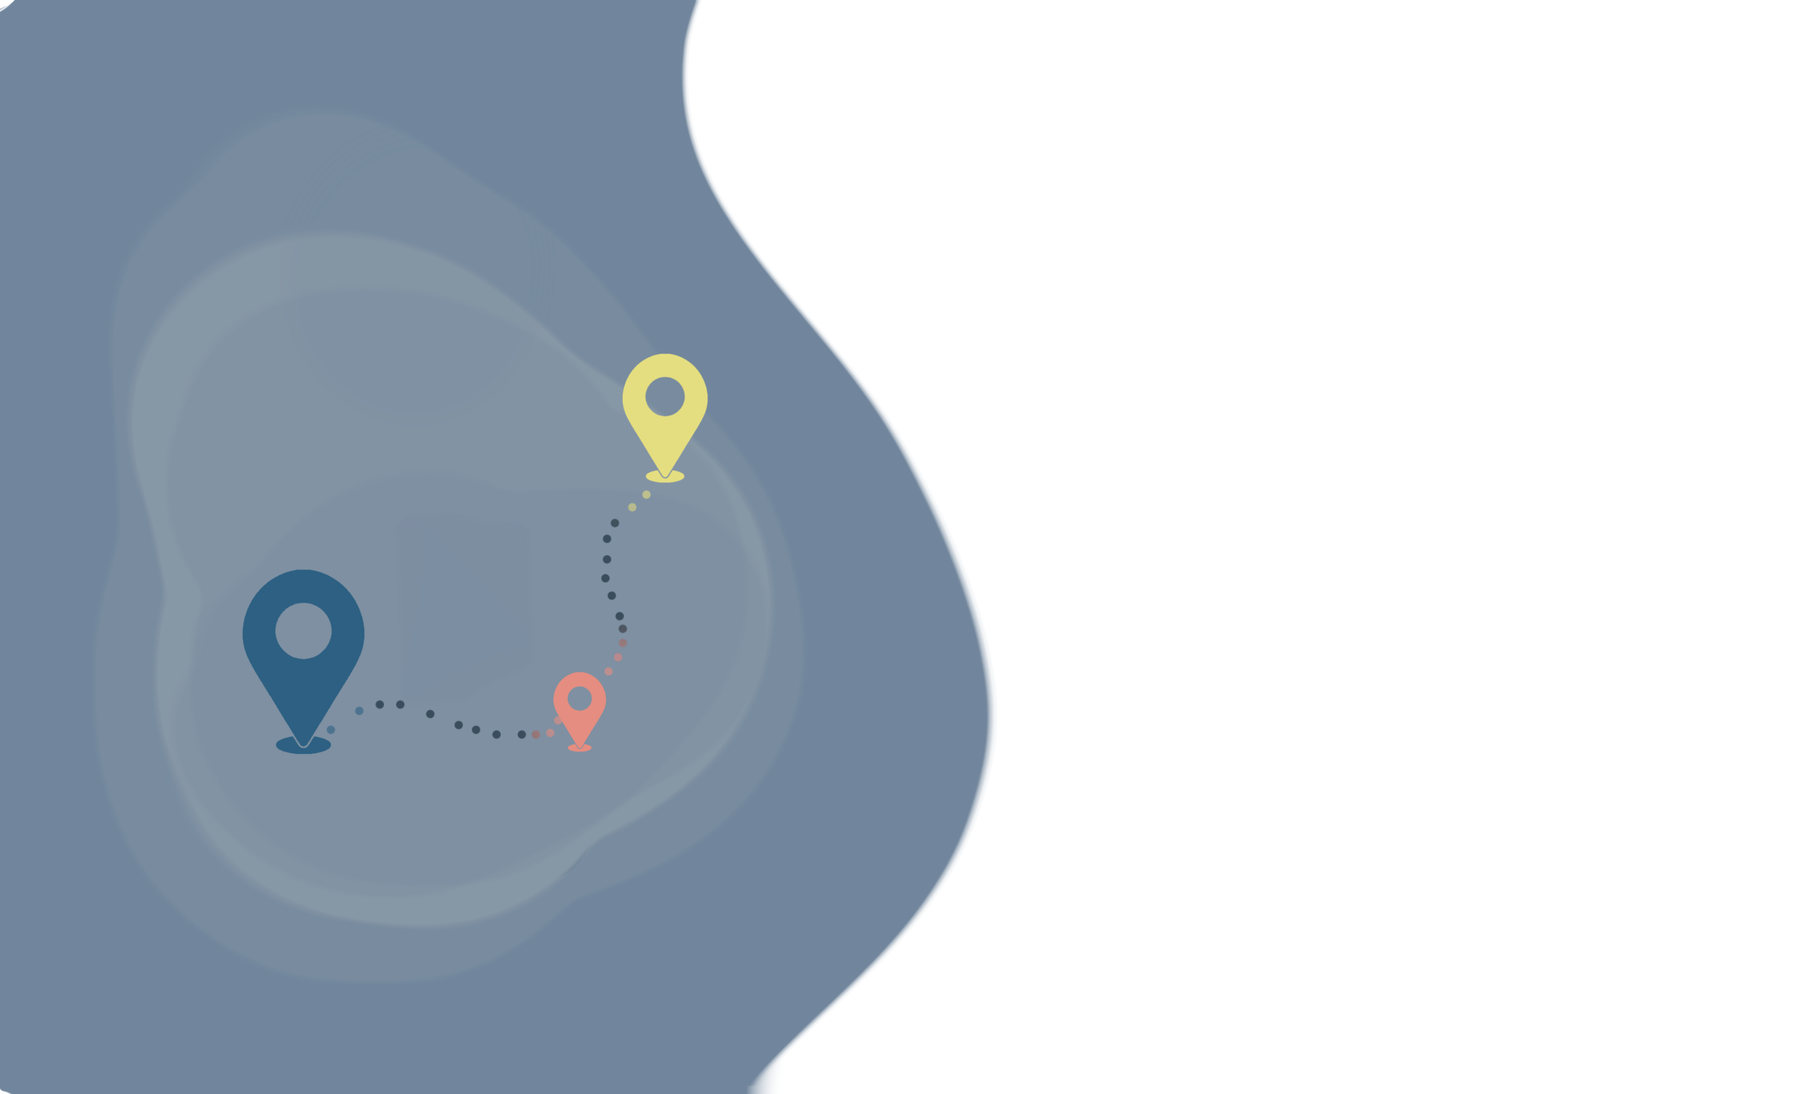
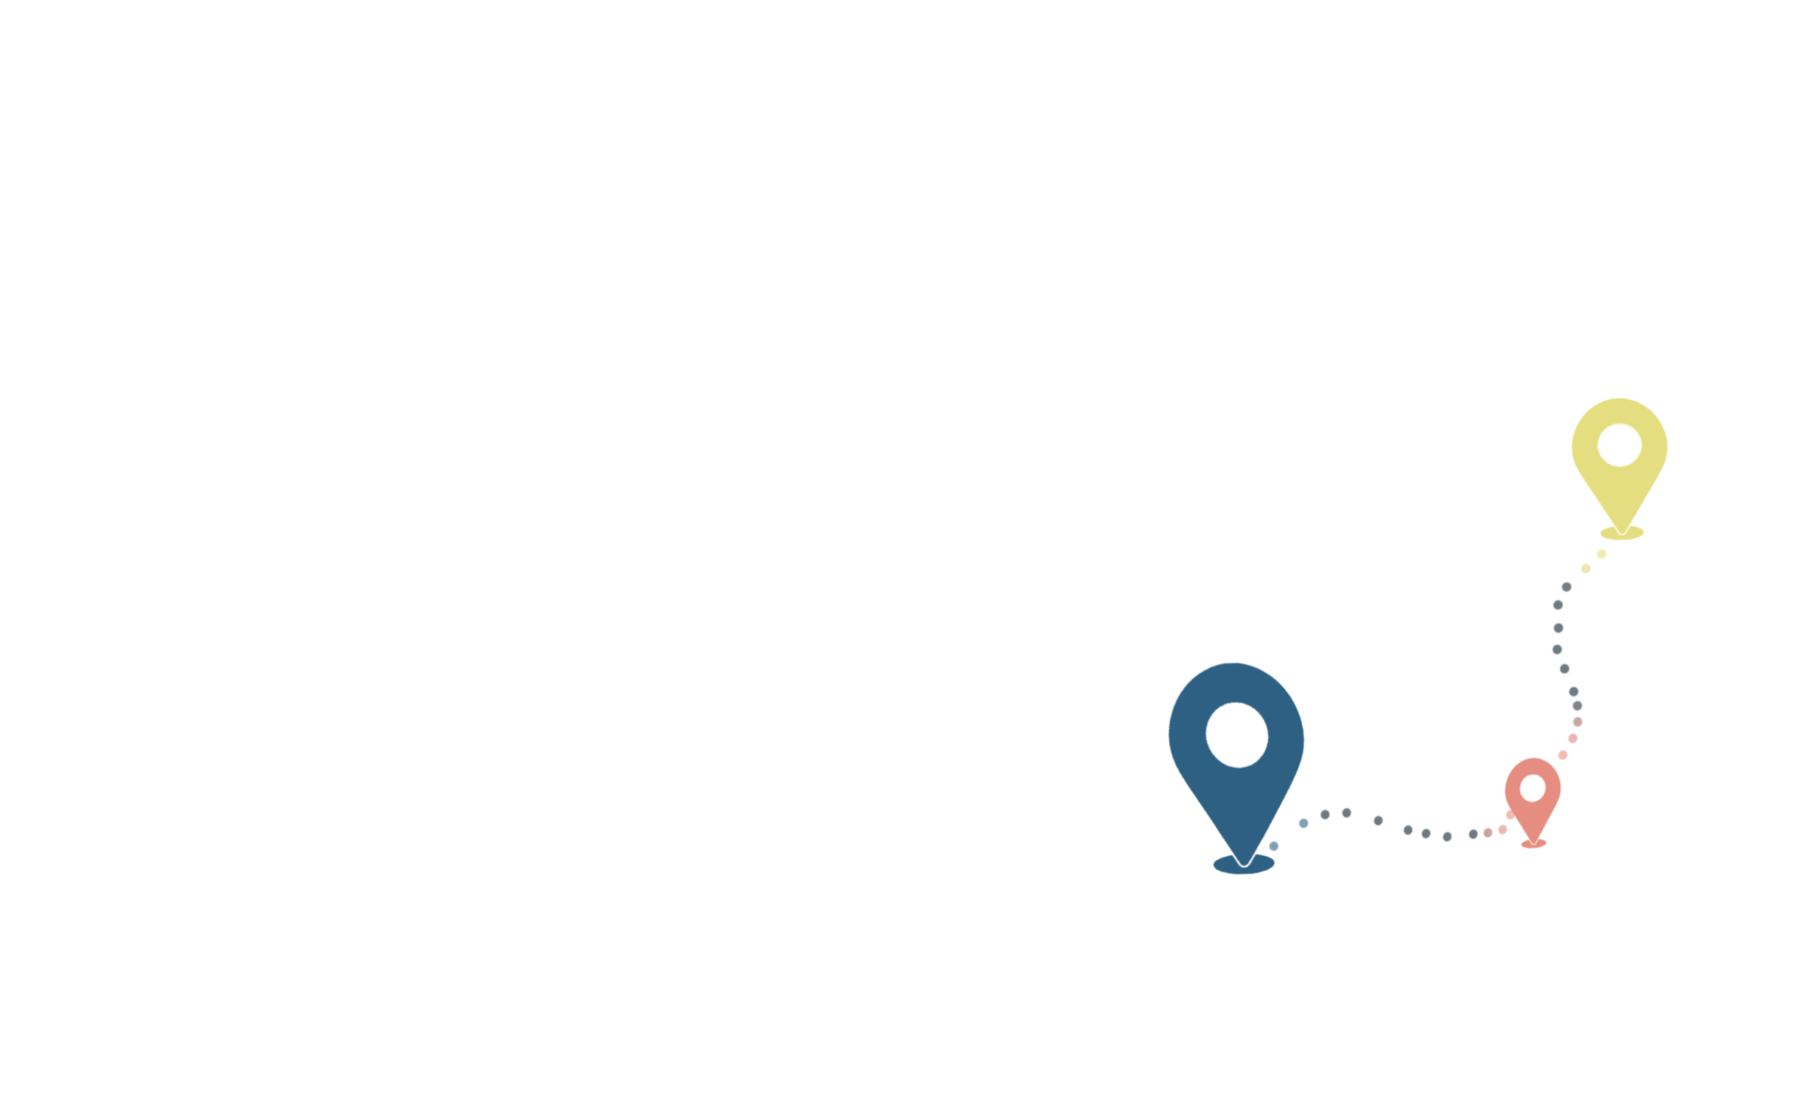
Added Login_SignUp

diff --git a/disaster-link/src/routes/signup/LguOfficial/+page.svelte b/disaster-link/src/routes/signup/LguOfficial/+page.svelte
@@ -1,0 +1,66 @@
+<div class=" min-h-screen flex flex-col items-center justify-center relative cursor-default">
+    <!-- bg-[linear-gradient(130deg,#2F4B5D_10%,#1B2E3A_100%)] -->
+    <img src="/imgs/landing2.png" alt="" class="absolute inset-0 w-full h-full opacity-70 object-cover pointer-events-none" />
+
+    <div class="fixed top-0 left-0 w-full bg-white/3-0 shadow-md z-50">
+        <div class="max-w-screen-xl mx-auto flex justify-between items-center h-12 px-4 md:px-4">
+            <h1 class="relative text-xs md:text-sm text-gray-500" style="font-family: 'Playfair Display SC', serif">DISASTERLINK</h1>
+            <div class="flex items-center space-x-3 md:space-x-6">
+            <a href="../login" class="bg-[#768391] text-black rounded px-4 md:px-5 text-xs text-white md:text-sm hover:bg-gray-300 transition p-1 hover:cursor-pointer">Log In</a>
+            </div>
+        </div> 
+    </div>
+
+    <div class="relative bg-[#2F4B5D]/4 w-170 h-100 grid place-content-center rounded-[16px] shadow-lg">
+        <div class="relative w-full flex flex-col items-center ">
+            <h1 class="relative text-[#2F4B5D] text-2xl font-bold">Create your DisasterLink account</h1>
+            <span class="relative top-5 text-[#2F4B5D] font-light -mt-5 text-sm">Access features to connect effectively.</span>
+            <div class="relative mt-20 grid grid-cols-1 md:grid-cols-3 w-full md:w-140 place-items-center"> 
+                <!-- <p class="text-xs w-full md:col-span-3 p-2">Name</p> -->
+                 <div class="relative -mt-10">
+                    <label for="FN" class="text-[10px] text-[#2F4B5D] md:col-span-2 w-full text-left ml-1">First Name</label>
+                    <input id="FN" type="text" placeholder="Enter your First Name" class="w-45 border p-1 rounded-lg mb-2 text-xs text-[#0C212F]" />
+                 </div>
+                 <div class="relative -mt-10">
+                    <label for="LN" class="text-[10px] text-[#2F4B5D] md:col-span-2 w-full text-left ml-1">Last Name</label>
+                    <input id="LN" type="text" placeholder="Enter your Last Name" class="w-45 border p-1 rounded-lg mb-2 text-xs text-[#0C212F]" />
+                 </div>
+                 <div class="relative -mt-10">
+                    <label for="UN" class="text-[10px] text-[#2F4B5D] md:col-span-2 w-full text-left ml-1">Username</label>
+                    <input id="UN" type="text" placeholder="Enter your Username" class="w-45 border p-1 rounded-lg mb-2 text-xs text-[#0C212F]" />
+                 </div>
+                 <div class="relative -mt-2 md:col-span-2 w-full text-left ml-1">
+                    <label for="EM" class="text-[10px] text-[#2F4B5D] ">Email Address</label>
+                    <input id="EM" type="text" placeholder="Enter your Email" class="md:col-span-2 w-91 border p-1 rounded-lg mb-2 text-xs text-[#0C212F]" /> 
+                </div>
+                <div class="relative -mt-2 ">
+                    <label for="PN" class="text-[10px] text-[#2F4B5D] ">Contact Number</label>
+                    <input id="PN"type="telephone" placeholder="Enter your Number" class="w-45 border p-1 rounded-lg mb-2 text-xs text-[#0C212F]" />
+                </div>
+                <div class="relative -mt-2 ">
+                    <label for="PASS" class="text-[10px] text-[#2F4B5D] ">Password</label>
+                    <input id="PASS" type="Password" placeholder="Enter Password" class="w-45 border p-1 rounded-lg mb-2 text-xs text-[#0C212F]" />
+                </div>
+                <input type="Password" placeholder="Confirm password" class="w-45 border p-1 rounded-lg mb-2 text-xs text-[#0C212F] mt-4" />
+                 
+                
+                <button class="w-10 md:w-25 h-10 md:h-8 bg-gray-800 text-xs md:text-sm text-white rounded col-start-3 flex items-center justify-center">Next</button>
+            </div>
+        </div>
+
+        <div class="relative grid grid-cols-1 md:grid-cols-1 gap-4 mt-5">
+            <p class="text-xs w-full md:col-start-1 justify-self-center text-center font-light">OR</p>
+                <button class="flex text-sm card p-4 shadow-sm bg-base-200 w-70 h-15 rounded justify-self-center justify-items-center gap-10">
+                    <svg class="w-5 h-5" viewBox="0 0 24 24" xmlns="http://www.w3.org/2000/svg">
+                        <path d="M22.56 12.25c0-.78-.07-1.53-.2-2.25H12v4.26h5.92c-.26 1.37-1.04 2.53-2.21 3.31v2.77h3.57c2.08-1.92 3.28-4.74 3.28-8.09z" fill="#1B2E3A"/>
+                        <path d="M12 23c2.97 0 5.46-.98 7.28-2.66l-3.57-2.77c-.98.66-2.23 1.06-3.71 1.06-2.86 0-5.29-1.93-6.16-4.53H2.18v2.84C3.99 20.53 7.7 23 12 23z" fill="#1B2E3A"/>
+                        <path d="M5.84 14.09c-.22-.66-.35-1.36-.35-2.09s.13-1.43.35-2.09V7.07H2.18C1.43 8.55 1 10.22 1 12s.43 3.45 1.18 4.93l2.85-2.22.81-.62z" fill="#1B2E3A"/>
+                        <path d="M12 5.38c1.62 0 3.06.56 4.21 1.64l3.15-3.15C17.45 2.09 14.97 1 12 1 7.7 1 3.99 3.47 2.18 7.07l3.66 2.84c.87-2.6 3.3-4.53 1.16-4.53z" fill="#1B2E3A"/>
+                    </svg>
+                    <span class="text-slate-700 font-medium">Continue with Google</span>
+                </button>
+            <!-- <div class=" text-sm card p-4 shadow-sm bg-base-200 w-100 h-15 rounded justify-self-center justify-items-center grid place-items-center">Continue with Google</div> -->
+        </div>
+    </div>
+</div>
+

diff --git a/disaster-link/src/routes/signup/Resident/+page.svelte b/disaster-link/src/routes/signup/Resident/+page.svelte
@@ -1,0 +1,66 @@
+<div class=" min-h-screen flex flex-col items-center justify-center relative cursor-default">
+    <!-- bg-[linear-gradient(130deg,#2F4B5D_10%,#1B2E3A_100%)] -->
+    <img src="/imgs/landing2.png" alt="" class="absolute inset-0 w-full h-full opacity-70 object-cover pointer-events-none" />
+
+    <div class="fixed top-0 left-0 w-full bg-white/3-0 shadow-md z-50">
+        <div class="max-w-screen-xl mx-auto flex justify-between items-center h-12 px-4 md:px-4">
+            <h1 class="relative text-xs md:text-sm text-gray-500" style="font-family: 'Playfair Display SC', serif">DISASTERLINK</h1>
+            <div class="flex items-center space-x-3 md:space-x-6">
+            <a href="../login" class="bg-[#768391] text-black rounded px-4 md:px-5 text-xs text-white md:text-sm hover:bg-gray-300 transition p-1 hover:cursor-pointer">Log In</a>
+            </div>
+        </div> 
+    </div>
+
+    <div class="relative bg-[#2F4B5D]/4 w-170 h-100 grid place-content-center rounded-[16px] shadow-lg">
+        <div class="relative w-full flex flex-col items-center ">
+            <h1 class="relative text-[#2F4B5D] text-2xl font-bold">Create your DisasterLink account</h1>
+            <span class="relative top-5 text-[#2F4B5D] font-light -mt-5 text-sm">Access features to connect effectively.</span>
+            <div class="relative mt-20 grid grid-cols-1 md:grid-cols-3 w-full md:w-140 place-items-center"> 
+                <!-- <p class="text-xs w-full md:col-span-3 p-2">Name</p> -->
+                 <div class="relative -mt-10">
+                    <label for="FN" class="text-[10px] text-[#2F4B5D] md:col-span-2 w-full text-left ml-1">First Name</label>
+                    <input id="FN" type="text" placeholder="Enter your First Name" class="w-45 border p-1 rounded-lg mb-2 text-xs text-[#0C212F]" />
+                 </div>
+                 <div class="relative -mt-10">
+                    <label for="LN" class="text-[10px] text-[#2F4B5D] md:col-span-2 w-full text-left ml-1">Last Name</label>
+                    <input id="LN" type="text" placeholder="Enter your Last Name" class="w-45 border p-1 rounded-lg mb-2 text-xs text-[#0C212F]" />
+                 </div>
+                 <div class="relative -mt-10">
+                    <label for="UN" class="text-[10px] text-[#2F4B5D] md:col-span-2 w-full text-left ml-1">Username</label>
+                    <input id="UN" type="text" placeholder="Enter your Username" class="w-45 border p-1 rounded-lg mb-2 text-xs text-[#0C212F]" />
+                 </div>
+                 <div class="relative -mt-2 md:col-span-2 w-full text-left ml-1">
+                    <label for="EM" class="text-[10px] text-[#2F4B5D] ">Email Address</label>
+                    <input id="EM" type="text" placeholder="Enter your Email" class="md:col-span-2 w-91 border p-1 rounded-lg mb-2 text-xs text-[#0C212F]" /> 
+                </div>
+                <div class="relative -mt-2 ">
+                    <label for="PN" class="text-[10px] text-[#2F4B5D] ">Contact Number</label>
+                    <input id="PN"type="telephone" placeholder="Enter your Number" class="w-45 border p-1 rounded-lg mb-2 text-xs text-[#0C212F]" />
+                </div>
+                <div class="relative -mt-2 ">
+                    <label for="PASS" class="text-[10px] text-[#2F4B5D] ">Password</label>
+                    <input id="PASS" type="Password" placeholder="Enter Password" class="w-45 border p-1 rounded-lg mb-2 text-xs text-[#0C212F]" />
+                </div>
+                <input type="Password" placeholder="Confirm password" class="w-45 border p-1 rounded-lg mb-2 text-xs text-[#0C212F] mt-4" />
+                 
+                
+                <button class="w-10 md:w-25 h-10 md:h-8 bg-gray-800 text-xs md:text-sm text-white rounded col-start-3 flex items-center justify-center">Next</button>
+            </div>
+        </div>
+
+        <div class="relative grid grid-cols-1 md:grid-cols-1 gap-4 mt-5">
+            <p class="text-xs w-full md:col-start-1 justify-self-center text-center font-light">OR</p>
+                <button class="flex text-sm card p-4 shadow-sm bg-base-200 w-70 h-15 rounded justify-self-center justify-items-center gap-10">
+                    <svg class="w-5 h-5" viewBox="0 0 24 24" xmlns="http://www.w3.org/2000/svg">
+                        <path d="M22.56 12.25c0-.78-.07-1.53-.2-2.25H12v4.26h5.92c-.26 1.37-1.04 2.53-2.21 3.31v2.77h3.57c2.08-1.92 3.28-4.74 3.28-8.09z" fill="#1B2E3A"/>
+                        <path d="M12 23c2.97 0 5.46-.98 7.28-2.66l-3.57-2.77c-.98.66-2.23 1.06-3.71 1.06-2.86 0-5.29-1.93-6.16-4.53H2.18v2.84C3.99 20.53 7.7 23 12 23z" fill="#1B2E3A"/>
+                        <path d="M5.84 14.09c-.22-.66-.35-1.36-.35-2.09s.13-1.43.35-2.09V7.07H2.18C1.43 8.55 1 10.22 1 12s.43 3.45 1.18 4.93l2.85-2.22.81-.62z" fill="#1B2E3A"/>
+                        <path d="M12 5.38c1.62 0 3.06.56 4.21 1.64l3.15-3.15C17.45 2.09 14.97 1 12 1 7.7 1 3.99 3.47 2.18 7.07l3.66 2.84c.87-2.6 3.3-4.53 1.16-4.53z" fill="#1B2E3A"/>
+                    </svg>
+                    <span class="text-slate-700 font-medium">Continue with Google</span>
+                </button>
+            <!-- <div class=" text-sm card p-4 shadow-sm bg-base-200 w-100 h-15 rounded justify-self-center justify-items-center grid place-items-center">Continue with Google</div> -->
+        </div>
+    </div>
+</div>
+

diff --git a/disaster-link/src/routes/login/+page.svelte b/disaster-link/src/routes/login/+page.svelte
@@ -1,1 +1,72 @@
-<h1>LOGIN PAGE NIIIII</h1>
+<div class=" min-h-screen flex flex-col items-center justify-center relative cursor-default">
+    <!-- bg-[linear-gradient(130deg,#2F4B5D_10%,#1B2E3A_100%)] -->
+    <img src="/imgs/landing2.png" alt="" class="absolute inset-0 w-full h-full opacity-70 object-cover pointer-events-none" />
+
+    <div class="fixed top-0 left-0 w-full bg-white/3-0 shadow-md z-50">
+        <div class="max-w-screen-xl mx-auto flex justify-between items-center h-12 px-4 md:px-4">
+            <h1 class="relative text-xs md:text-sm text-gray-500" style="font-family: 'Playfair Display SC', serif">DISASTERLINK</h1>
+            <div class="flex items-center space-x-3 md:space-x-6">
+            <!-- <a href="../login" class="bg-[#768391] text-black rounded px-4 md:px-5 text-xs md:text-sm hover:bg-gray-300 transition pt-1 hover:cursor-pointer">Log In</a> -->
+            </div>
+        </div>
+        
+    </div>
+
+<div class="relative bg-[#2F4B5D]/4 w-150 h-100 grid place-content-center rounded-[16px] shadow-lg">
+  <img src="/imgs/login1.png" alt="" class="absolute inset-0 w-full h-full object-cover pointer-events-none" />
+    <div class="relative w-full flex flex-col items-center">
+        <h1 class="relative text-[#2F4B5D] text-2xl font-bold -mt-25">Welcome Back!</h1>
+        <span class="relative top-5 text-[#2F4B5D] font-light -mt-5 text-sm">Let's get you logged in.</span>
+
+        <div class="flex flex-col items-end">
+            <div class="flex flex-col mt-10">
+                <label for="EM" class="text-[10px] text-[#2F4B5D] w-full text-left ml-1">Email</label>
+                <div class="relative flex items-center">
+                    <div class="absolute left-2.5 flex items-center pointer-events-none -mt-1.5">
+                        <svg xmlns="http://www.w3.org/2000/svg" fill="none" viewBox="0 0 24 24" stroke-width="1.5" stroke="#1B2E3A" class="w-3.5 h-3.5">
+                            <path stroke-linecap="round" stroke-linejoin="round" d="M21.75 6.75v10.5a2.25 2.25 0 01-2.25 2.25h-15a2.25 2.25 0 01-2.25-2.25V6.75m19.5 0A2.25 2.25 0 0019.5 4.5h-15a2.25 2.25 0 00-2.25 2.25m19.5 0v.243a2.25 2.25 0 01-1.07 1.916l-7.5 4.615a2.25 2.25 0 01-2.36 0L3.32 8.91a2.25 2.25 0 01-1.07-1.916V6.75" />
+                        </svg>
+                    </div>
+                    <input id="EM" type="text" placeholder="Enter Email" class="w-60 border p-1 pl-8 rounded-lg mb-2 text-xs text-[#0C212F]" />
+                </div>
+            </div>
+
+            <div class="flex flex-col mt-2">
+                <label for="PASS" class="text-[10px] text-[#2F4B5D] w-full text-left ml-1">Password</label>
+                <div class="relative flex items-center">
+                    <div class="absolute left-2.5 flex items-center pointer-events-none -mt-1.5">
+                        <svg xmlns="http://www.w3.org/2000/svg" fill="none" viewBox="0 0 24 24" stroke-width="1.5" stroke="#1B2E3A" class="w-3.5 h-3.5">
+                            <path stroke-linecap="round" stroke-linejoin="round" d="M16.5 10.5V6.75a4.5 4.5 0 10-9 0v3.75m-.75 11.25h10.5a2.25 2.25 0 002.25-2.25v-6.75a2.25 2.25 0 00-2.25-2.25H6.75a2.25 2.25 0 00-2.25 2.25v6.75a2.25 2.25 0 002.25 2.25z" />
+                        </svg>
+                    </div>
+                    <input id="PASS" type="password" placeholder="Enter Password" class="w-60 border p-1 pl-8 rounded-lg mb-2 text-xs text-[#0C212F]" />
+                </div>
+                <p class="text-[9px] -mt-2 ml-1 text-[#2F4B5D] hover:underline cursor-pointer">Forgot password?</p>
+            </div>
+
+            <button class="relative right-10 w-40 bg-gray-800 text-white py-2 rounded-[14px] mt-4 hover:bg-gray-700 transition-colors">Log In</button>
+        </div>
+    </div>
+</div>
+  </div>
+<!-- <div class=" min-h-screen flex flex-col items-center justify-center bg-[linear-gradient(130deg,#2F4B5D_10%,#1B2E3A_100%)] relative cursor-default">
+    <img src="/imgs/landing1.png" alt="" class="absolute inset-0 w-full h-full object-contain opacity-20 pointer-events-none" />
+  <div class="fixed inset-0 bg-opacity-50 flex items-center justify-center z-50">
+    
+    <div class="bg-[#4E6883] rounded-lg shadow-lg p-6 w-150 h-90 relative">
+<img src="/imgs/login1.png" alt="" class="absolute inset-0 w-full h-full object-cover opacity-20 pointer-events-none" />
+      
+      
+      <div class="flex flex-col items-end relative top-20 right">
+        <h2 class="text-l font-bold mb-4 relative right-30 text-white">Welcome Back!</h2>
+        <input type="text" placeholder="Username" class="w-60 border p-1 rounded-lg mb-2 text-sm text-[#0C212F]" />
+        <input type="password" placeholder="Password" class="w-60 border p-1 rounded-lg mb-2 text-sm text-[#0C212F]" />
+        <button class="relative right-10 w-40 bg-gray-800 text-white py-2 rounded-[14px] ">Log In</button>
+      </div>
+      
+    </div>
+
+    <img src="/imgs/landing1.png" alt="" class="absolute inset-0 w-full h-full object-contain opacity-20 pointer-events-none" />
+  </div>
+</div> -->
+

diff --git a/disaster-link/src/routes/+page.svelte b/disaster-link/src/routes/+page.svelte
@@ -1,60 +1,20 @@
-<script lang="ts">
-  let showModal = false;
-  let modalType: 'login' | 'signup' = 'login';
-
-  const openModal = (type: 'login' | 'signup') => {
-    modalType = type;
-    showModal = true;
-  };
-  const closeModal = () => showModal = false;
-</script>
-
-{#if showModal}
-  <div class="fixed inset-0 bg-opacity-50 flex items-center justify-center z-50 ">
-    <div class="bg-[#4E6883] rounded-lg shadow-lg p-6 w-150 h-90  relative">
-      <img src="/imgs/login1.png" alt="" class="absolute inset-0 w-full h-full object-contain pointer-events-none" />
-      <button class="absolute top-2 right-3 text-gray-500 hover:text-gray-800" on:click={closeModal}>✕</button>
-      
-      {#if modalType === 'login'}
-        <div class="flex flex-col items-end relative top-20 right">
-          <h2 class="text-xl font-bold mb-4 relative right-25">Welcome Back!</h2>
-          <input type="text" placeholder="Username" class="w-60 border p-1 rounded-lg mb-2 text-sm" />
-          <input type="password" placeholder="Password" class="w-60 ` border p-1 rounded-lg mb-2 text-sm" />
-          <button class="relative right-5 w-50 bg-gray-800 text-white py-2 rounded">Log In</button>
-        </div>
-        
-      {:else}
-        <div class="flex flex-col items-end relative top-20 right">
-          <h2 class="text-xl font-bold mb-4 relative right-28">Sign Up Now!</h2>
-          <input type="text" placeholder="Username" class="w-60 border p-1 rounded mb-2 text-sm" />
-          <input type="email" placeholder="Email" class="w-60 border p-1 rounded mb-2 text-sm" />
-          <input type="password" placeholder="Password" class="w-60 border p-1 rounded mb-2 text-sm" />
-          <button class="relative right-5 w-50 bg-gray-800 text-white py-2 rounded">Sign Up</button>
-        </div>
-        
-      {/if}
-    </div>
-      <img src="/imgs/landing1.png" alt="" class="absolute inset-0 w-full h-full object-contain opacity-20 pointer-events-none" />
-  </div>
-{/if}
-
-
-
 <div class="min-h-screen flex flex-col items-center justify-center p-6 bg-[linear-gradient(130deg,#0C212F_35%,#2F4B5D_100%)] relative cursor-default">
   
-<img src="/imgs/landing1.png" alt="" class="absolute inset-0 w-full h-full object-contain opacity-20 pointer-events-none" />
+<img src="/imgs/landing1.png" alt="" class="absolute inset-0 w-full h-full object-cover opacity-20 pointer-events-none" />
 
 
 <div class="fixed top-0 left-0 w-full bg-white/3-0 shadow-md z-50">
-  <div class="max-w-screen-xl mx-auto flex justify-end items-center h-12 px-3 space-x-4">
-    <h1 class="relative right-240 text-gray-500" style="font-family: 'Playfair Display SC', serif">DISASTERLINK</h1>
-    <a on:click={() => openModal('signup')} class="text-white text-sm font-medium hover:underline hover:cursor-pointer">Sign Up</a>
-    <button on:click={() => openModal('login')} class="bg-[#768391] text-black rounded px-5 py-1 text-sm hover:bg-gray-300 transition pt-1 hover:cursor-pointer">Log In</button>
+  <div class="max-w-screen-xl mx-auto flex justify-between items-center h-12 px-4 md:px-4">
+    <h1 class="relative text-xs md:text-sm text-gray-500" style="font-family: 'Playfair Display SC', serif">DISASTERLINK</h1>
+    <div class="flex items-center space-x-3 md:space-x-6">
+      <a href="signup" class="text-white text-xs md:sm font-medium hover:underline hover:cursor-pointer">Sign Up</a>
+      <a href="login" class="bg-[#768391] text-black rounded px-4 md:px-5 text-xs md:text-sm hover:bg-gray-300 transition p-1 hover:cursor-pointer">Log In</a>
+    </div>
   </div>
 </div>
 
 
-  <h1 class="relative left-5 font-playfairsc text-4xl font-bold text-center text-[#ffffff] mb-1" style="font-family: 'Playfair Display SC', serif">Hyper Local Coordination Hub</h1>
+  <h1 style="font-family: 'Playfair Display SC', serif" class="relative left-5 font-playfairsc text-xl md:text-4xl font-bold text-center text-[#ffffff] mb-1 opacity-60">HYPER LOCAL COORDINATION HUB</h1>
   <p class="relative left-5 text-gray-300 text-center max-w-md mt-0 font-light">SAFETY ● COORDINATION ● TRANSPARENCY</p>
 
 

diff --git a/disaster-link/src/routes/signup/+page.svelte b/disaster-link/src/routes/signup/+page.svelte
@@ -1,0 +1,21 @@
+<div class="min-h-screen flex flex-col items-center justify-center p-6 bg-[linear-gradient(130deg,#0C212F_35%,#2F4B5D_100%)] relative cursor-default">
+<!-- <div class=" min-h-screen flex flex-col items-center justify-center bg-[linear-gradient(130deg,#2F4B5D_10%,#1B2E3A_100%)] relative cursor-default"> -->
+    <img src="/imgs/landing1.png" alt="" class="absolute inset-0 w-full h-full object-cover opacity-20 pointer-events-none" />
+
+    <div class="fixed top-0 left-0 w-full bg-white/3-0 shadow-md z-50">
+        <h1 class="relative text-gray-500 p-3 left-6" style="font-family: 'Playfair Display SC', serif">DISASTERLINK</h1>
+    </div>
+
+    <div class="relative w-full flex flex-col items-center -mt-5">
+            <h1 class="relative text-white text-4xl font-bold">HOW DO YOU INTEND TO USE DISASTER LINK?</h1>
+            <span class="relative right-7 top-5 text-white font-light -mt-5 text-sm" style="font-family: 'Playfair Display SC', serif">Already have an account?</span><a href="/login" class="relative left-23  text-white hover:underline hover:cursor-pointer text-sm " style="font-family: 'Playfair Display SC', serif">Login</a>
+    </div>
+
+    <div class="relative grid grid-cols-1 md:grid-cols-2 gap-6 mt-5">
+        <a href="signup/Resident" class="card p-4 shadow-md bg-base-300 w- h-14 rounded-[8px] bg-[#2F4B5D]/70 grid place-content-center text-gray-500 text-sm" >Resident</a>
+        <a href="signup/LguOfficial" class="card p-4 shadow-md bg-base-300 w-65 h-14 rounded-[8px]  bg-[#2F4B5D]/70 grid place-content-center text-gray-500 text-sm">LGU Official / Responder</a>
+    </div>
+
+</div>
+
+
